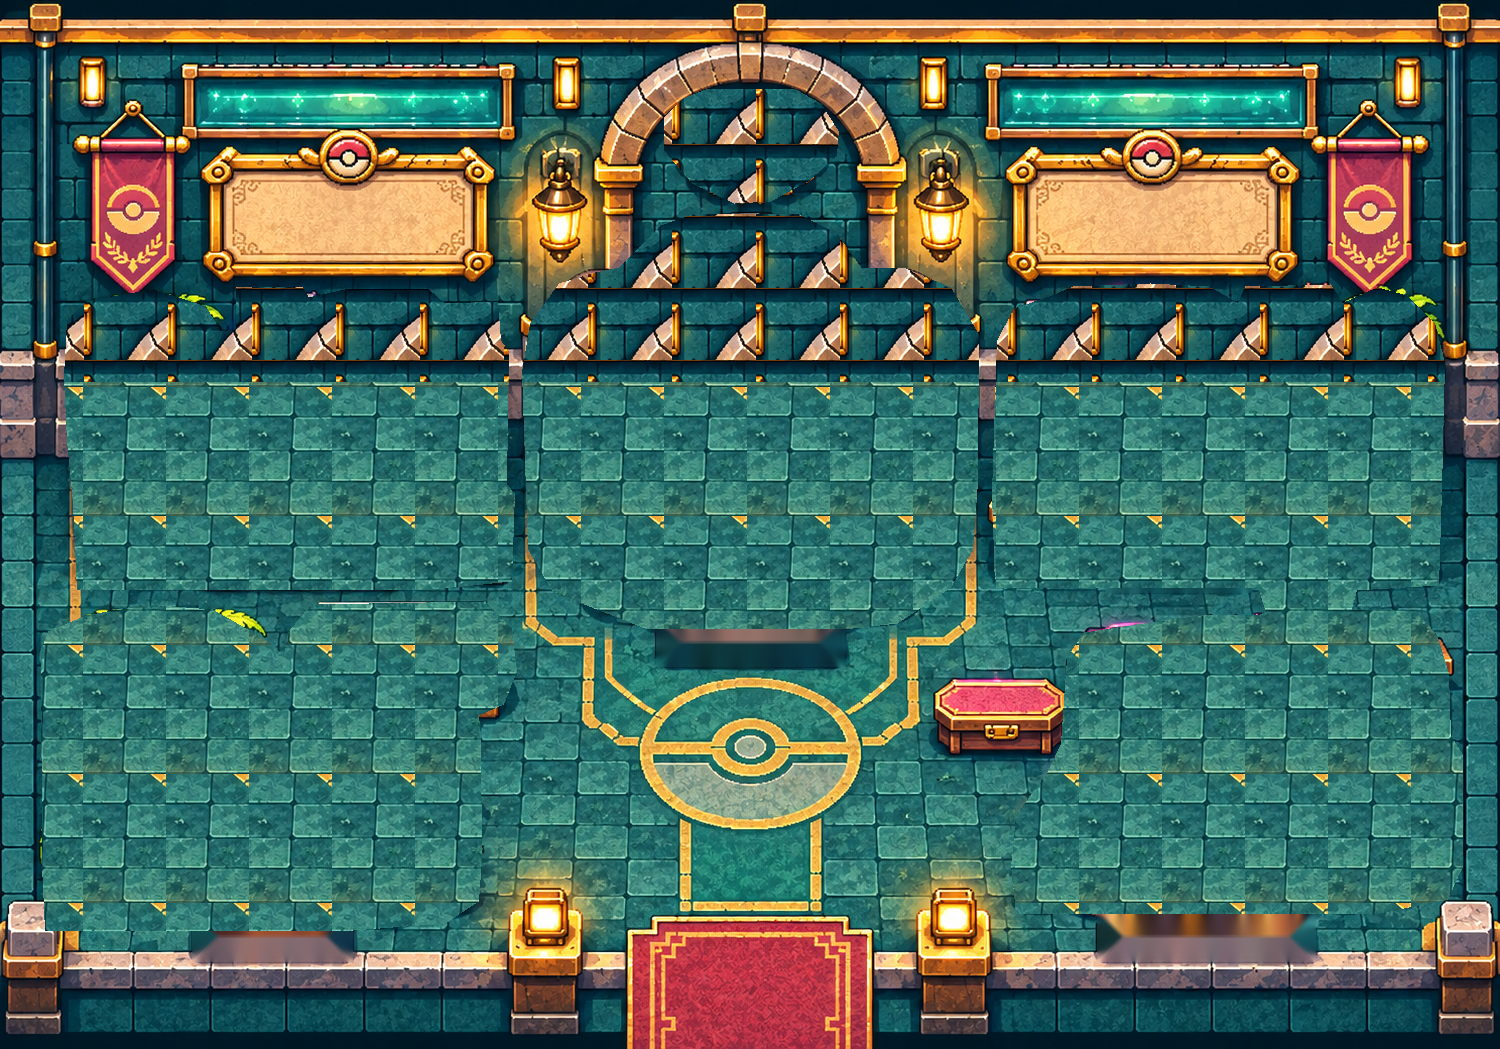
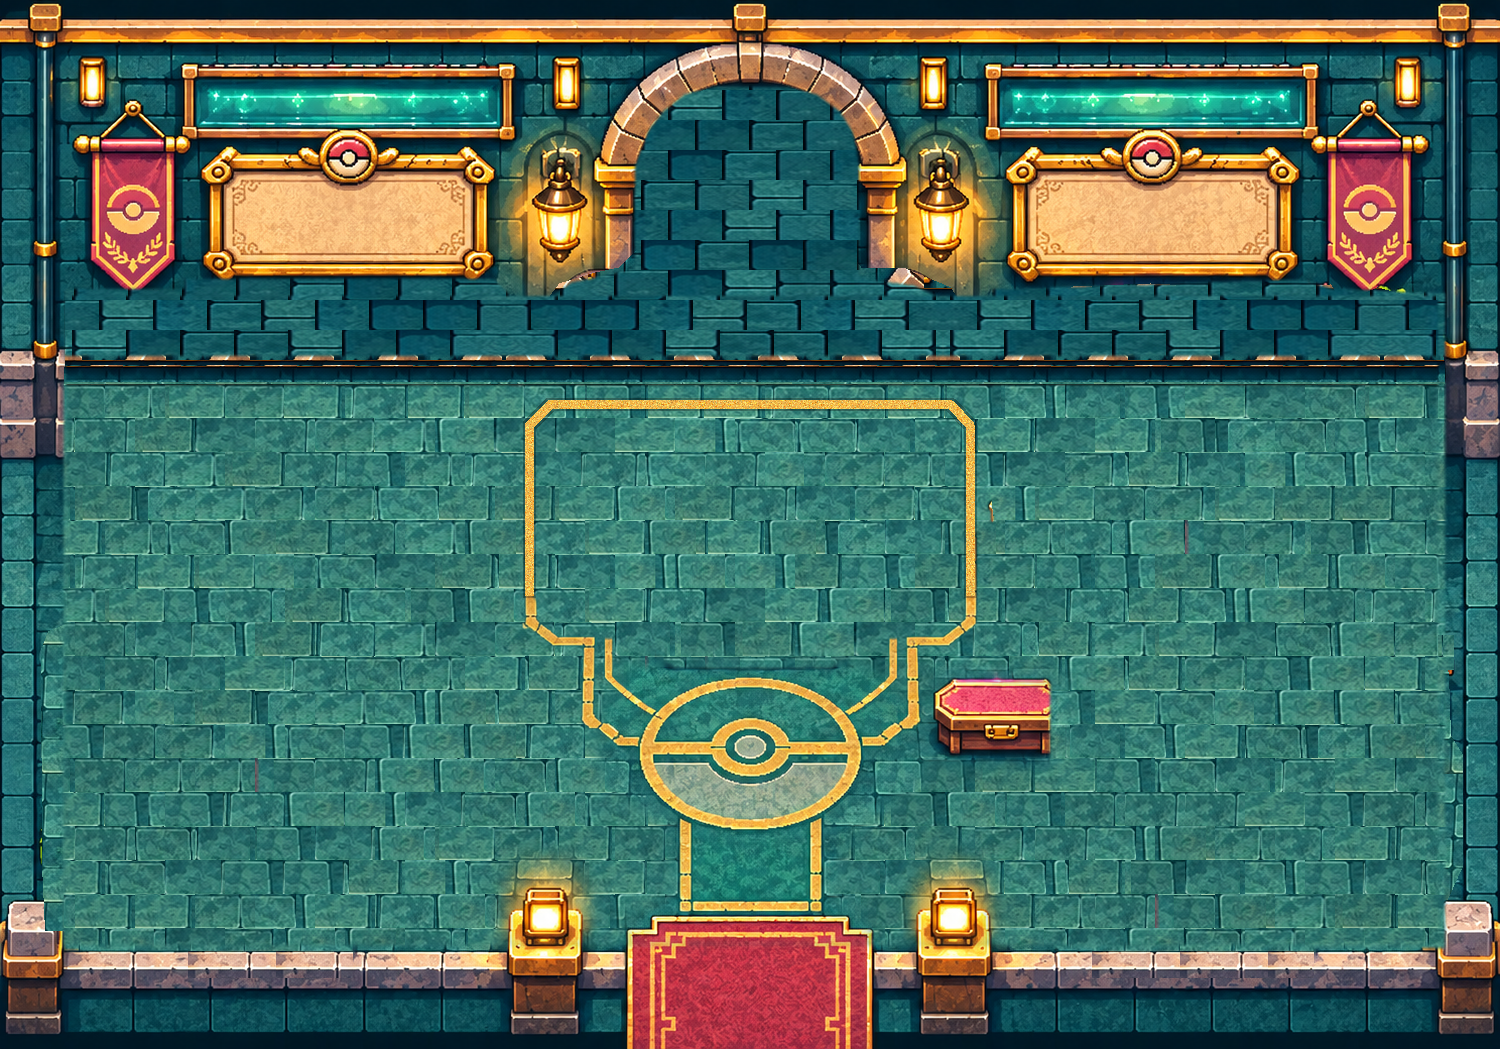
art(research QA): restore V3.1 floor and wall backdrop while preserving six sprites

diff --git a/docs/RESEARCH_V31_BACKDROP_QA_2026-11-25.md b/docs/RESEARCH_V31_BACKDROP_QA_2026-11-25.md
@@ -1,0 +1,9 @@
+# Research lab V3.1 — backdrop repair QA
+
+- Previous backdrop available at commit `4e25fbfcf2365bc89b93e7404fc1a36375b1ed87` (blob `385222f23999c7373249a1a0b45b15b1a1600ee3`).
[1 lines of base64/hex data omitted]
+- Restored continuous floor tile rows, wall belt and central brass outline from original-art texture. Fixed chest, plaques, lamps, entry rug and main emblem remain.
+- All six furniture PNGs, their slots, positions and dimensions are unchanged. Local composite check: 705,752 fully opaque sprite pixels; 0 changed.
+- The background itself intentionally differs from V3; pixel-exact reconstruction of the old room is therefore no longer claimed.
+- New art is the default only in the isolated V3 QA build; no live deploy. Final visual backdrop review and browser regression required.
+- `readyForFurnitureSwap` remains false. No price, purchase, equip, save, or Co-op economy changes.
